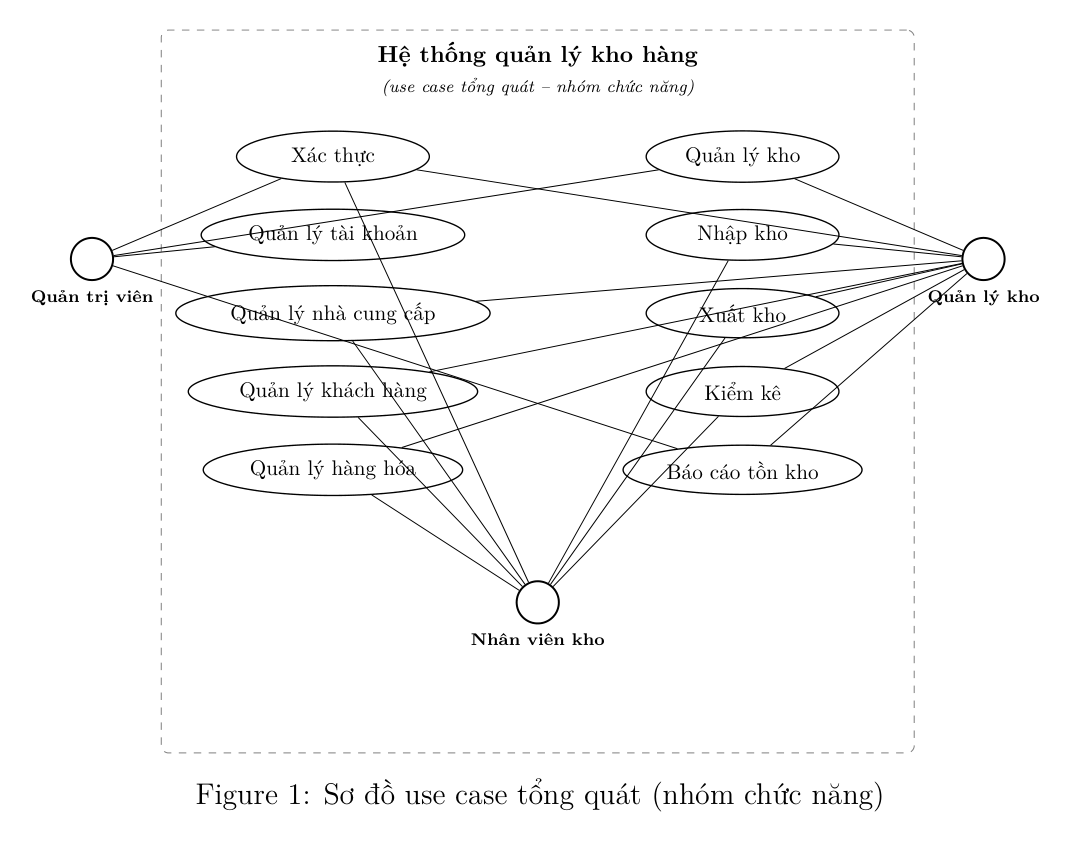
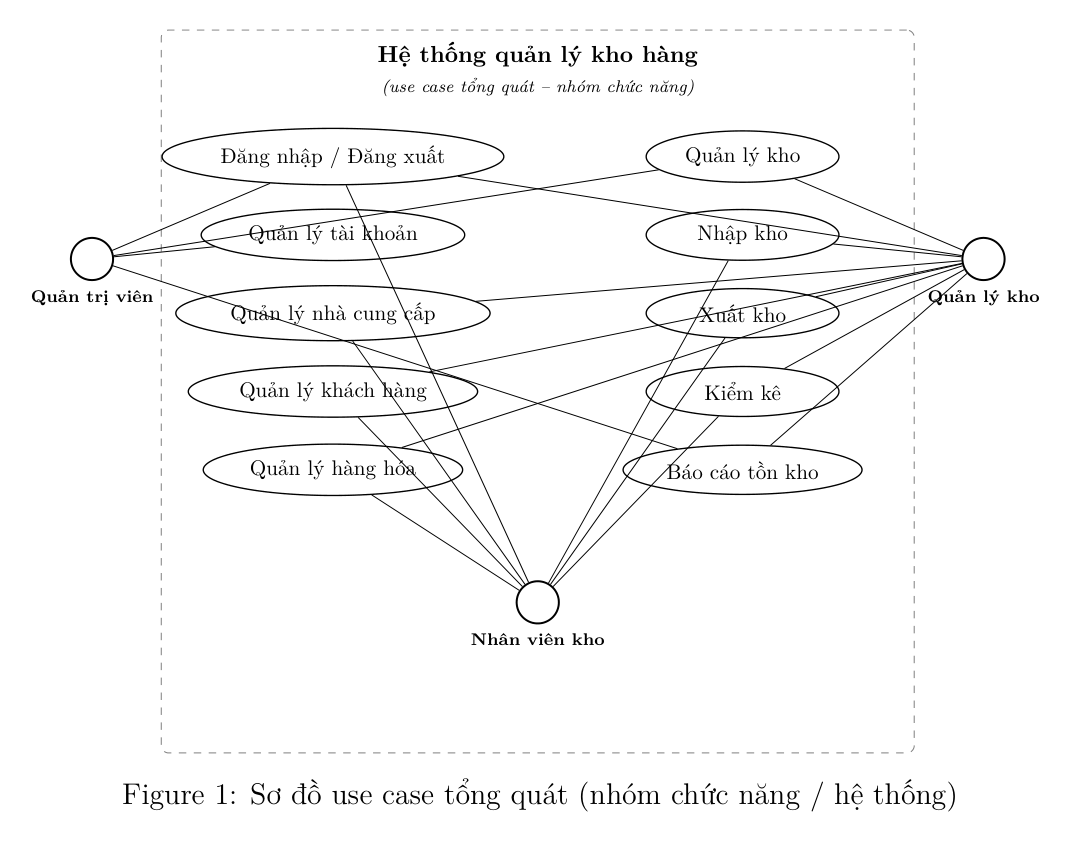
Loại bỏ nghiệp vụ "Xác thực" khỏi danh sách nghiệp vụ kho - giảm từ 10 xuống 9 nghiệp vụ cốt lõi (2.3-2.11), chuyển đăng nhập/đăng xuất thành chức năng hệ thống (UC01-UC02 không phải nghiệp vụ), điều chỉnh đánh số nghiệp vụ từ 2.3-2.12 xuống 2.3-2.11, cập nhật mục lục chương 2 (loại bỏ mục 2.3 Xác t

Changed region(s): [[0.0925, 0.9253, 0.8944, 0.9561], [0.185, 0.1542, 0.4318, 0.2467]]

diff --git a/VIII.HUST/Phân tích và thiết kế hệ thống/BaoCao/chapters/chapter2_mo_ta_nghiep_vu.tex b/VIII.HUST/Phân tích và thiết kế hệ thống/BaoCao/chapters/chapter2_mo_ta_nghiep_vu.tex
@@ -11,13 +11,18 @@ Báo cáo theo \textbf{hướng đối tượng} (UML):
     \item \textbf{CSDL \& giao diện} (Ch.7).
 \end{enumerate}
 
-\textit{Lưu ý}: Nghiệp vụ ``Quản lý \ldots'' là gói công việc \textbf{chung}, không phải một use case. Use case là \textbf{một mục tiêu cụ thể} của actor. Chọn \textbf{12 use case} tiêu biểu; sửa/xóa/tìm cùng nhóm có luồng tương tự.
+\textit{Lưu ý}:
+\begin{itemize}[leftmargin=1.5cm]
+    \item \textbf{Nghiệp vụ} = công việc nghiệp vụ của doanh nghiệp (nhập kho, xuất kho, kiểm kê\ldots).
+    \item \textbf{Không} coi \textbf{đăng nhập / đăng xuất} là nghiệp vụ -- đó là \textbf{chức năng hệ thống} (hỗ trợ an toàn truy cập), được mô hình hóa bằng use case ở Chương 3 (UC01, UC02).
+    \item Nghiệp vụ ``Quản lý \ldots'' là gói chung; use case = một mục tiêu cụ thể của actor.
+\end{itemize}
 
 \section{Tổng quan nghiệp vụ}
 
-Hệ thống quản lý kho hỗ trợ kiểm soát hàng hóa từ khi nhập vào đến khi xuất ra, đồng thời duy trì danh mục người dùng, đối tác, hàng hóa và kho. Các nghiệp vụ chính và use case tiêu biểu:
+Hệ thống phục vụ các nghiệp vụ \textbf{cốt lõi của kho}: danh mục (tài khoản nội bộ, đối tác, hàng, kho), nhập/xuất, kiểm kê và theo dõi tồn. Bảng ánh xạ sang use case tiêu biểu:
 
-\begin{longtable}{|p{4cm}|p{9cm}|}
+\begin{longtable}{|p{4.2cm}|p{8.8cm}|}
 \hline
 \textbf{Nghiệp vụ} & \textbf{Use case tiêu biểu (Ch.3)} \\
 \hline
@@ -26,8 +31,6 @@ Hệ thống quản lý kho hỗ trợ kiểm soát hàng hóa từ khi nhập v
 \textbf{Nghiệp vụ} & \textbf{Use case tiêu biểu (Ch.3)} \\
 \hline
 \endhead
-Xác thực & UC01 Đăng nhập; UC02 Đăng xuất \\
-\hline
 Quản lý tài khoản & UC03 Thêm tài khoản \\
 \hline
 Quản lý nhà cung cấp & UC04 Thêm nhà cung cấp \\
@@ -48,26 +51,9 @@ Báo cáo tồn kho & UC12 Xem báo cáo nhập xuất tồn \\
 \hline
 \end{longtable}
 
-\section{Nghiệp vụ 1: Xác thực}
+\noindent\textit{Chức năng hệ thống (không phải nghiệp vụ)}: Đăng nhập (UC01), Đăng xuất (UC02) -- điều kiện để người dùng truy cập các nghiệp vụ trên.
 
-\textbf{Mô tả}: Nghiệp vụ xác thực đảm bảo chỉ người có tài khoản hợp lệ mới được sử dụng hệ thống. Người dùng đăng nhập bằng tên đăng nhập và mật khẩu; hệ thống kiểm tra và tạo phiên làm việc (session). Khi kết thúc, người dùng đăng xuất để xóa phiên, tránh người khác dùng tiếp máy.
-
-\textbf{Người thực hiện}: Tất cả người dùng (quản trị viên, quản lý kho, nhân viên kho).
-
-\textbf{Quy trình}:
-\begin{enumerate}[leftmargin=1.5cm]
-    \item Người dùng mở trang đăng nhập, nhập tên đăng nhập và mật khẩu.
-    \item Hệ thống kiểm tra tài khoản tồn tại, mật khẩu đúng, trạng thái đang hoạt động.
-    \item Nếu hợp lệ: tạo phiên, ghi nhận thời gian đăng nhập, chuyển đến trang chủ theo vai trò.
-    \item Nếu không hợp lệ: thông báo lỗi (sai thông tin hoặc tài khoản bị khóa), yêu cầu nhập lại.
-    \item Khi đăng xuất: hệ thống xóa phiên và quay về trang đăng nhập.
-\end{enumerate}
-
-\textbf{Dữ liệu liên quan}: Bảng \texttt{NguoiDung} (tên đăng nhập, mật khẩu mã hóa, trạng thái); bảng \texttt{LichSuThaoTac} (ghi log đăng nhập/đăng xuất).
-
-\textbf{Use case liên quan}: UC01 Đăng nhập; UC02 Đăng xuất.
-
-\section{Nghiệp vụ 2: Quản lý tài khoản}
+\section{Nghiệp vụ 1: Quản lý tài khoản}
 
 \textbf{Mô tả}: Quản trị viên duy trì danh sách tài khoản trên hệ thống, gán vai trò (quản trị viên, quản lý kho, nhân viên kho) để phân quyền. Chỉ người được cấp quyền tương ứng mới thực hiện được các thao tác nhập/xuất, duyệt phiếu, quản lý danh mục.
 
@@ -82,13 +68,13 @@ Báo cáo tồn kho & UC12 Xem báo cáo nhập xuất tồn \\
     \item Nếu trùng tên đăng nhập: báo lỗi, yêu cầu đổi tên.
 \end{enumerate}
 
-Ngoài ra, quản trị viên có thể \textbf{sửa} thông tin/vai trò, \textbf{khóa/mở} tài khoản, \textbf{tìm kiếm} danh sách -- các thao tác này có luồng tương tự (chọn bản ghi $\rightarrow$ thực hiện $\rightarrow$ lưu) và không đặc tả riêng trong 10 UC tiêu biểu.
+Ngoài ra, quản trị viên có thể \textbf{sửa} thông tin/vai trò, \textbf{khóa/mở} tài khoản, \textbf{tìm kiếm} danh sách -- luồng tương tự (chọn bản ghi $\rightarrow$ thực hiện $\rightarrow$ lưu).
 
 \textbf{Dữ liệu liên quan}: \texttt{NguoiDung} (mã, tên đăng nhập, mật khẩu, họ tên, vai trò, trạng thái).
 
 \textbf{Use case tiêu biểu}: UC03 Thêm tài khoản.
 
-\section{Nghiệp vụ 3: Quản lý nhà cung cấp}
+\section{Nghiệp vụ 2: Quản lý nhà cung cấp}
 
 \textbf{Mô tả}: Lưu trữ và duy trì thông tin các nhà cung cấp hàng hóa (tên, địa chỉ, điện thoại, email, người liên hệ). Thông tin NCC được dùng khi lập phiếu nhập kho, giúp truy vết hàng đến từ ai.
 
@@ -106,7 +92,7 @@ Ngoài ra, quản trị viên có thể \textbf{sửa} thông tin/vai trò, \tex
 
 \textbf{Use case tiêu biểu}: UC04 Thêm nhà cung cấp.
 
-\section{Nghiệp vụ 4: Quản lý khách hàng}
+\section{Nghiệp vụ 3: Quản lý khách hàng}
 
 \textbf{Mô tả}: Tương tự nhà cung cấp, nghiệp vụ này quản lý danh mục khách hàng nhận hàng khi xuất kho (tên, địa chỉ, liên hệ, mã số thuế nếu là doanh nghiệp). Phục vụ lập phiếu xuất và theo dõi lịch sử giao dịch theo khách.
 
@@ -124,7 +110,7 @@ Ngoài ra, quản trị viên có thể \textbf{sửa} thông tin/vai trò, \tex
 
 \textbf{Use case tiêu biểu}: UC05 Thêm khách hàng.
 
-\section{Nghiệp vụ 5: Quản lý hàng hóa}
+\section{Nghiệp vụ 4: Quản lý hàng hóa}
 
 \textbf{Mô tả}: Duy trì danh mục hàng hóa trong hệ thống: mã, tên, nhóm hàng, đơn vị tính, giá nhập, giá xuất, mô tả, trạng thái. Hàng hóa là trung tâm của hệ thống -- mọi phiếu nhập/xuất và tồn kho đều tham chiếu đến mã hàng. Khi thêm hàng mới, hệ thống tự khởi tạo số lượng tồn bằng 0 tại các kho đang hoạt động.
 
@@ -151,7 +137,7 @@ Có thể sửa thông tin/giá hoặc đánh dấu ngừng sử dụng hàng kh
 
 \textbf{Use case tiêu biểu}: UC06 Thêm hàng hóa; UC07 Tìm kiếm hàng hóa.
 
-\section{Nghiệp vụ 6: Quản lý kho}
+\section{Nghiệp vụ 5: Quản lý kho}
 
 \textbf{Mô tả}: Doanh nghiệp có thể có nhiều kho (địa điểm khác nhau). Nghiệp vụ này duy trì thông tin từng kho: mã, tên, địa chỉ, người phụ trách, diện tích, trạng thái hoạt động. Tồn kho được theo dõi theo từng cặp (kho, hàng hóa).
 
@@ -170,7 +156,7 @@ Có thể sửa thông tin/giá hoặc đánh dấu ngừng sử dụng hàng kh
 
 \textbf{Use case tiêu biểu}: UC08 Thêm kho.
 
-\section{Nghiệp vụ 7: Nhập kho}
+\section{Nghiệp vụ 6: Nhập kho}
 
 \textbf{Mô tả}: Khi hàng từ nhà cung cấp về kho, nhân viên lập \textbf{phiếu nhập kho} ghi nhận NCC, kho nhận, ngày nhập và từng dòng hàng (mã hàng, số lượng, đơn giá). Phiếu được gửi \textbf{duyệt}; chỉ khi quản lý kho duyệt, hệ thống mới \textbf{tăng tồn kho} và khóa phiếu. Nếu từ chối, tồn không đổi.
 
@@ -191,7 +177,7 @@ Có thể sửa thông tin/giá hoặc đánh dấu ngừng sử dụng hàng kh
 
 \textbf{Use case tiêu biểu}: UC09 Lập phiếu nhập kho (bao gồm luồng lập và duyệt với hai actor).
 
-\section{Nghiệp vụ 8: Xuất kho}
+\section{Nghiệp vụ 7: Xuất kho}
 
 \textbf{Mô tả}: Khi xuất hàng cho khách hàng hoặc sử dụng nội bộ, nhân viên lập \textbf{phiếu xuất kho}. Hệ thống \textbf{kiểm tra tồn đủ} trước khi cho phép thêm dòng hàng. Sau khi quản lý duyệt, tồn kho được \textbf{giảm} tương ứng.
 
@@ -212,7 +198,7 @@ Có thể sửa thông tin/giá hoặc đánh dấu ngừng sử dụng hàng kh
 
 \textbf{Use case tiêu biểu}: UC10 Lập phiếu xuất kho (lập + duyệt).
 
-\section{Nghiệp vụ 9: Kiểm kê tồn kho}
+\section{Nghiệp vụ 8: Kiểm kê tồn kho}
 
 \textbf{Mô tả}: Định kỳ (tháng/quý), đối chiếu số lượng hàng \textbf{thực tế} trong kho với số lượng trên hệ thống (sổ sách). Nếu có chênh lệch, quản lý duyệt điều chỉnh để \texttt{TonKho} khớp thực tế.
 
@@ -232,7 +218,7 @@ Có thể sửa thông tin/giá hoặc đánh dấu ngừng sử dụng hàng kh
 
 \textbf{Use case tiêu biểu}: UC11 Lập phiếu kiểm kê.
 
-\section{Nghiệp vụ 10: Báo cáo nhập -- xuất -- tồn}
+\section{Nghiệp vụ 9: Báo cáo nhập -- xuất -- tồn}
 
 \textbf{Mô tả}: Quản lý kho / quản trị viên xem \textbf{báo cáo tồn kho} và tổng hợp nhập--xuất--tồn theo khoảng thời gian, theo kho hoặc theo hàng, phục vụ theo dõi vận hành (không bao gồm module tài chính/thanh toán phức tạp).
 
@@ -252,4 +238,4 @@ Có thể sửa thông tin/giá hoặc đánh dấu ngừng sử dụng hàng kh
 
 \section{Kết luận chương}
 
-Chương 2 mô tả 10 nghiệp vụ (gồm \textbf{kiểm kê} và \textbf{báo cáo tồn}). Ánh xạ sang 12 use case tiêu biểu ở Chương 3. Tiếp: đặc tả UC, activity, sequence, class.
+Chương 2 mô tả \textbf{9 nghiệp vụ} cốt lõi của kho (không tính đăng nhập/đăng xuất -- chức năng hệ thống). Ánh xạ sang use case ở Chương 3 (UC01--UC02 là use case hệ thống; UC03--UC12 gắn nghiệp vụ). Tiếp: đặc tả UC, activity, sequence, class.

diff --git a/VIII.HUST/Phân tích và thiết kế hệ thống/BaoCao/chapters/chapter3_phan_tich_chuc_nang.tex b/VIII.HUST/Phân tích và thiết kế hệ thống/BaoCao/chapters/chapter3_phan_tich_chuc_nang.tex
@@ -26,9 +26,9 @@ Nhân viên kho & Lập phiếu nhập/xuất; thêm/tìm hàng, đối tác. \\
 \section{Nguyên tắc}
 
 \begin{itemize}[leftmargin=1.5cm]
-    \item Use case = \textbf{một mục tiêu cụ thể} (vd.\ Thêm hàng hóa), không phải ``Quản lý hàng hóa''.
-    \item \textbf{Tổng quát}: nhóm chức năng từ nghiệp vụ.
-    \item \textbf{Phân rã}: các use case cụ thể thuộc nhóm (12 UC tiêu biểu).
+    \item Use case = \textbf{một mục tiêu cụ thể} của actor (vd.\ Thêm hàng hóa), không phải ``Quản lý hàng hóa''.
+    \item \textbf{Nghiệp vụ} (Ch.2) $\neq$ use case. Đăng nhập/đăng xuất \textbf{không} phải nghiệp vụ kho -- là use case \textbf{hệ thống} (UC01, UC02).
+    \item \textbf{Tổng quát}: nhóm chức năng; \textbf{Phân rã}: 12 UC tiêu biểu.
 \end{itemize}
 
 \section{Sơ đồ use case tổng quát}
@@ -87,7 +87,8 @@ UC12 & Xem báo cáo nhập xuất tồn & QL kho, QTV \\
 \subsection{UC01 -- Đăng nhập}
 
 \begin{itemize}[leftmargin=1.5cm]
-    \item \textbf{Mục tiêu}: Vào hệ thống sau xác thực.
+    \item \textbf{Loại}: Use case \textbf{hệ thống} (không phải nghiệp vụ kho).
+    \item \textbf{Mục tiêu}: Vào hệ thống sau khi xác thực.
     \item \textbf{Trước}: Có tài khoản hoạt động.
     \item \textbf{Chính}: Nhập tên/MK $\rightarrow$ kiểm tra $\rightarrow$ tạo phiên.
     \item \textbf{Thay thế}: Sai TT / khóa $\rightarrow$ lỗi.
@@ -96,6 +97,7 @@ UC12 & Xem báo cáo nhập xuất tồn & QL kho, QTV \\
 \subsection{UC02 -- Đăng xuất}
 
 \begin{itemize}[leftmargin=1.5cm]
+    \item \textbf{Loại}: Use case hệ thống.
     \item \textbf{Mục tiêu}: Kết thúc phiên. Chọn đăng xuất $\rightarrow$ xóa phiên.
 \end{itemize}
 

diff --git a/VIII.HUST/Phân tích và thiết kế hệ thống/BaoCao/diagrams/tex/3.4_usecase.tex b/VIII.HUST/Phân tích và thiết kế hệ thống/BaoCao/diagrams/tex/3.4_usecase.tex
@@ -13,7 +13,7 @@
 \node[font=\bfseries\small] at (0,5.6) {Hệ thống quản lý kho hàng};
 \node[font=\scriptsize\itshape] at (0,5.05) {(use case tổng quát -- nhóm chức năng)};
 
-\node[usecase] (g1) at (-3.4,3.9) {Xác thực};
+\node[usecase] (g1) at (-3.4,3.9) {Đăng nhập / Đăng xuất};
 \node[usecase] (g2) at (-3.4,2.6) {Quản lý tài khoản};
 \node[usecase] (g3) at (-3.4,1.3) {Quản lý nhà cung cấp};
 \node[usecase] (g4) at (-3.4,0.0) {Quản lý khách hàng};
@@ -52,6 +52,7 @@
 
 \end{tikzpicture}
 }
-\caption{Sơ đồ use case tổng quát (nhóm chức năng)}
+\caption{Sơ đồ use case tổng quát (nhóm chức năng / hệ thống)}
 \label{fig:usecase-tongquat}
 \end{figure}
+